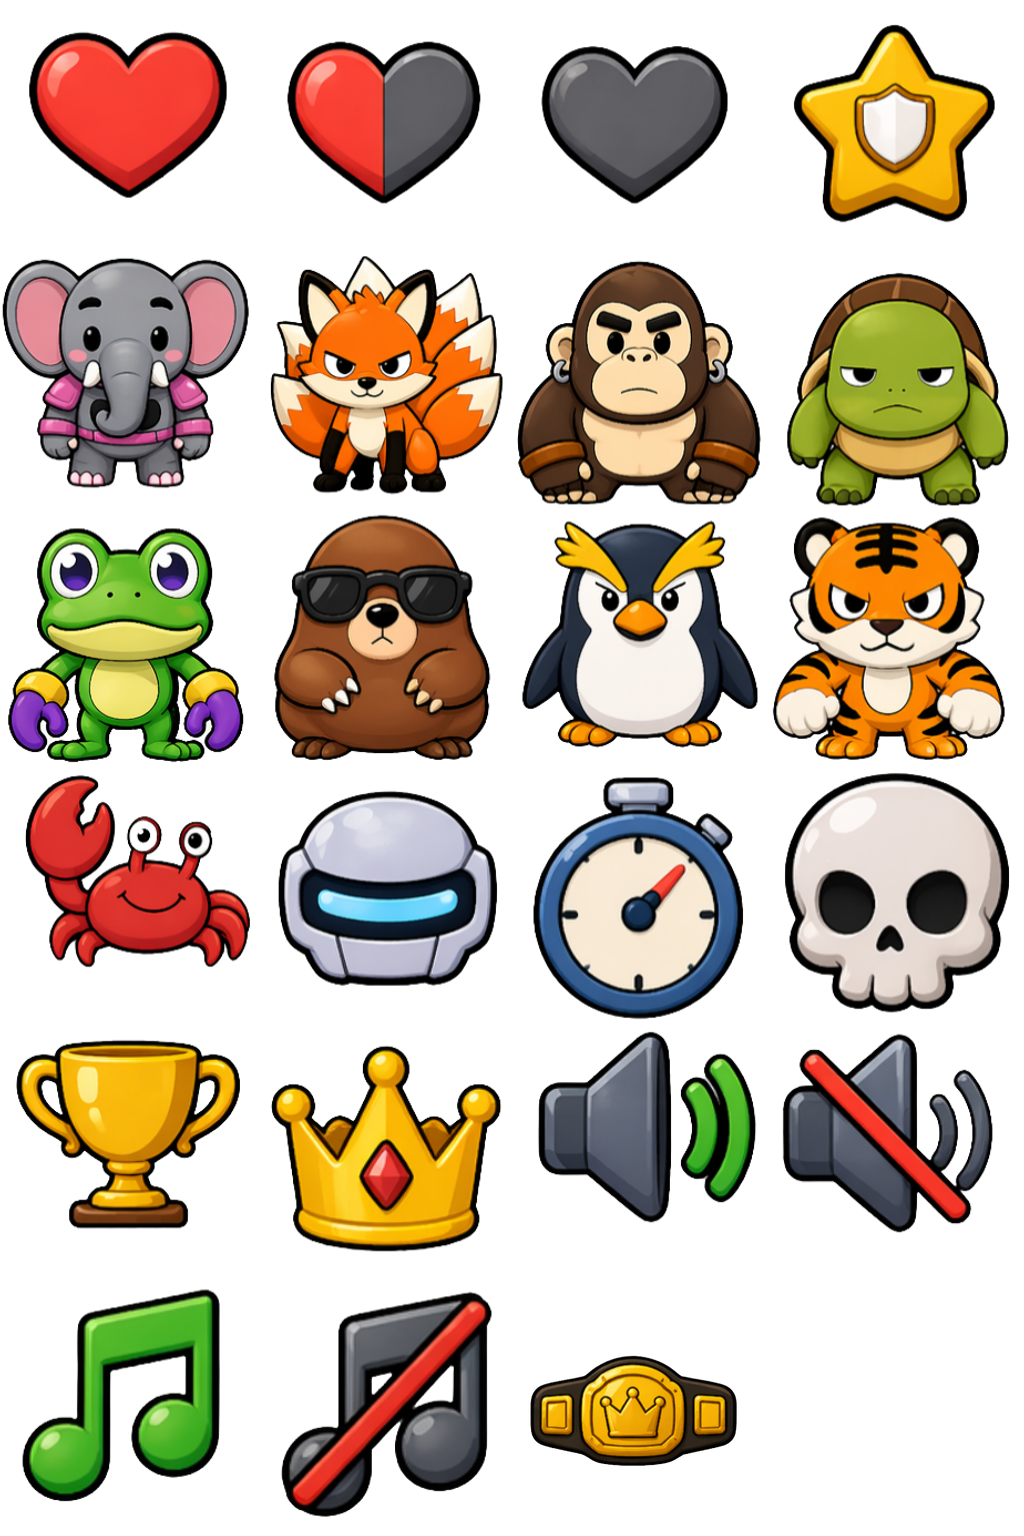
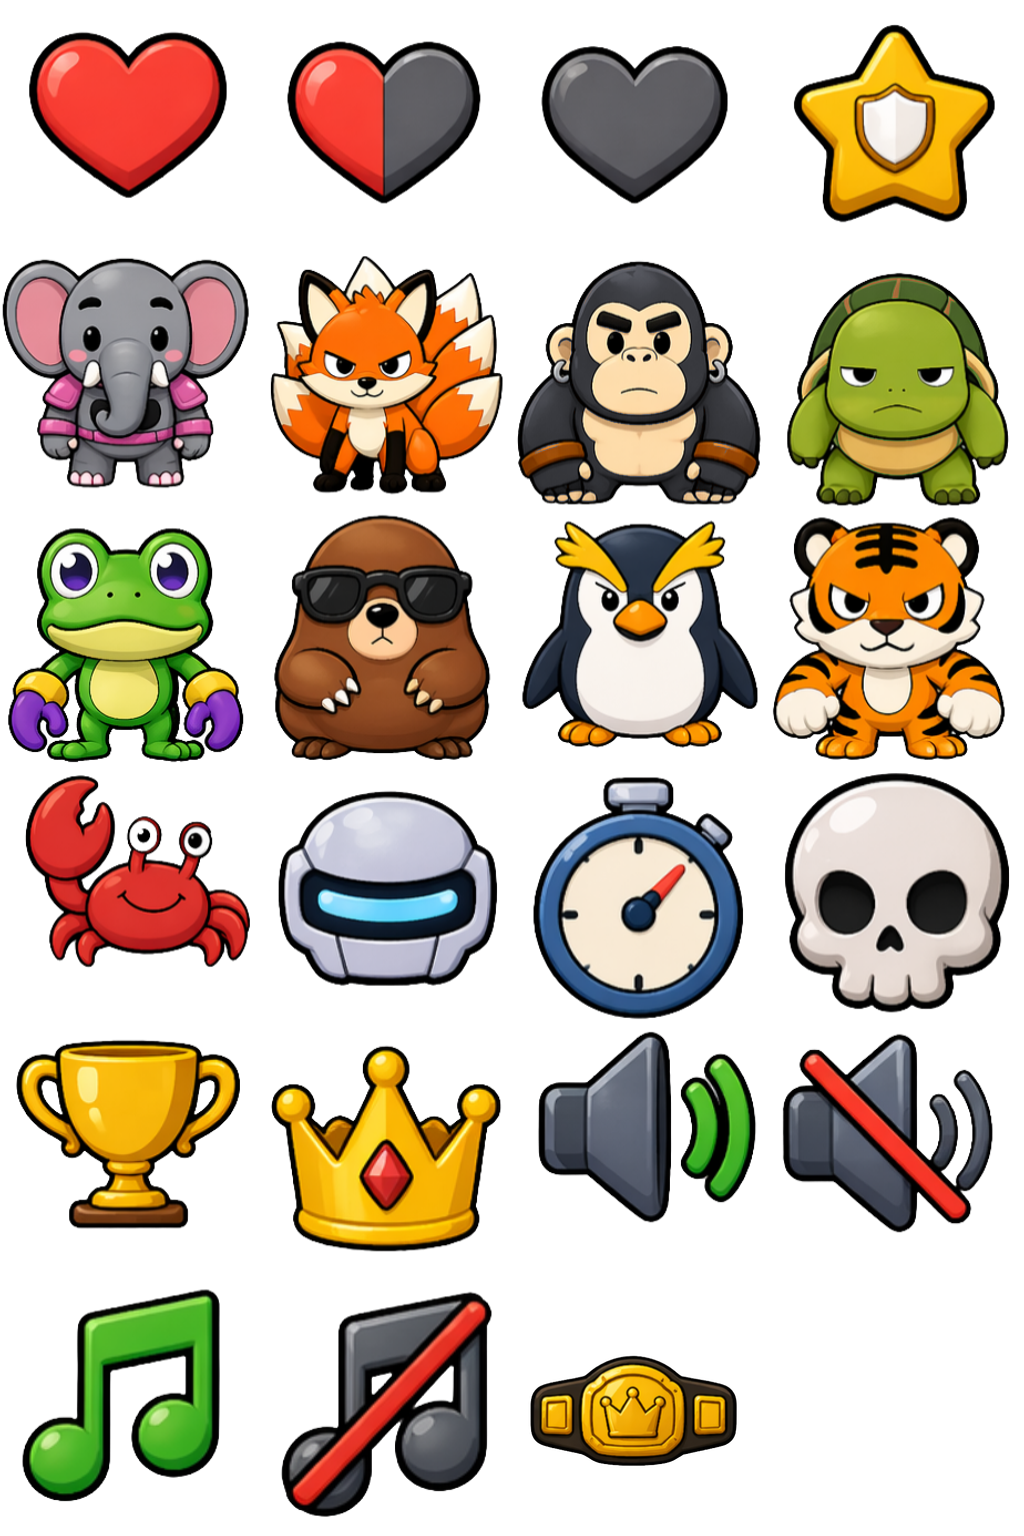
feat(interfaz): los sprites de Sergei y Shelly pasan a la paleta nueva
Con la paleta de los bocetos de Rafa (PERSONAJES, 2026-09-24), el chibi de
Sergei seguía siendo un gorila marrón (el bicho es carbón) y Shelly
llevaba el caparazón marrón (ahora es oliva). Como los sprites tapan la
miniatura en la parrilla y en las esquinas, se elegía un bicho y se
jugaba con otro.

Rafa eligió recolorear por código antes que redibujar, y aprobó la hoja
antes/después/3D.

- scripts/recolor-hud-tiles.mjs: mueve solo los píxeles marrón oscuro de
  los dos tiles, fundidos por peso. Cara, aros, tripa y contorno quedan
  intactos. Las muñequeras de Sergei se conservan (el 3D también las
  lleva) y se separan por saturación. Reescribe el máster
  _raw/hud-icons.png y regenera hud-icons.webp (q90). La idempotencia va
  por guarda: el fundido suave hacía que una segunda pasada moviera 240 px
  más.
- rebuild-hud-sheet.mjs: la cabecera documenta el orden si se rehace la
  hoja desde HUD_mejorado.png, que sigue con la paleta del jam.

Verificado: parrilla de selección en navegador mudo, check completo (el
webp pasa de 272.562 a 271.876 B) y smoke 3/3.

Docs: BUILD_LOG [Interfaz] (nadie más tocó hoy los troncales), mi carril
y mi nota en el buzón de PERSONAJES, donde también pido que saquen la
normalización de materiales de Meshy a critter-look.ts para usarla en la
miniatura.

Changed region(s): [[0.5, 0.1562, 0.75, 0.3438], [0.7812, 0.1562, 0.9688, 0.25]]

diff --git a/docs/carriles/interfaz.md b/docs/carriles/interfaz.md
@@ -5,17 +5,6 @@ Territorio y reglas: [`docs/SESIONES.md`](../SESIONES.md). Detalle en
 
 ## Pendiente (por orden)
 
-0. **Sprites chibi del HUD con la paleta vieja — espera a Rafa.** Con la
-   paleta de sus bocetos (PERSONAJES, 2026-09-24), el tile de **Sergei**
-   es un gorila marrón (el bicho es carbón) y el de **Shelly** lleva el
-   caparazón marrón (ahora es verde). Kowalski, Kermit, Cheeto y Sihans
-   cuadran; Trunk, Kurama y Sebastian no cambiaron. Los sprites tapan la
-   miniatura en la parrilla y en las esquinas de la partida, así que el
-   choque se ve al elegir. Salen de `HUD_mejorado.png` (arte de Rafa) vía
-   `scripts/rebuild-hud-sheet.mjs`. Opciones: que Rafa rehaga esos dos
-   tiles, o un recoloreado por código de los dos tiles como apaño para que
-   él lo juzgue. **Viaja con el despliegue de H4.5**: la paleta nueva sale
-   con él.
 1. **Reestructura del HUD en móvil** (diferido de la era jam: "la versión
    actual es correcta, no ideal"). Mide antes de rediseñar.
    Dato ya medido (2026-09-21): con el portal apagado
@@ -60,6 +49,22 @@ Territorio y reglas: [`docs/SESIONES.md`](../SESIONES.md). Detalle en
 
 ## Hecho
 
+- **2026-09-24 — Sprites chibi de Sergei y Shelly a la paleta nueva**
+  (aprobado por Rafa sobre la hoja antes/después/3D). Con la paleta de sus
+  bocetos, el tile de Sergei era un gorila marrón (el bicho es carbón) y
+  el de Shelly llevaba el caparazón marrón (ahora es oliva). Los sprites
+  tapan la miniatura en la parrilla y en las esquinas, así que se elegía
+  un bicho y se jugaba con otro. `scripts/recolor-hud-tiles.mjs` mueve
+  solo los píxeles marrón oscuro de esos dos tiles, fundidos por peso:
+  cara, aros, tripa y contorno quedan intactos. Las muñequeras de Sergei
+  (s ≥ 0,9) se conservan, porque el 3D también las lleva. Reescribe el
+  máster `_raw/hud-icons.png` y regenera el `.webp`. Es idempotente por
+  guarda: un tile con menos de 1.000 px marrones se da por hecho, porque
+  el fundido suave hacía que una segunda pasada moviera 240 px más. **Si
+  algún día se rehace la hoja desde `HUD_mejorado.png`** (que sigue con la
+  paleta del jam): `rebuild-hud-sheet` → `compress-images` →
+  `recolor-hud-tiles`. Kowalski, Kermit, Cheeto y Sihans ya cuadraban;
+  Trunk, Kurama y Sebastian no cambiaron.
 - **2026-09-24 — Miniaturas 3D con contorno y encuadre por pose**
   (`src/slot-thumbnail.ts`, petición de PERSONAJES). Llevan el mismo
   contorno que `Critter` (`setOutlineVisible(attachOutline(glb), true)`,
@@ -88,9 +93,11 @@ Territorio y reglas: [`docs/SESIONES.md`](../SESIONES.md). Detalle en
 
 ## Cómo retomar
 
-**2026-09-24** — miniaturas con contorno y encuadre, en `dev`. Portal
-cerrado en `dev`, pendiente solo del despliegue (lo lleva DISTRIBUCIÓN
-junto con el de H4.5). Esperando a Rafa: los sprites de Sergei y Shelly
-(punto 0). Siguiente trabajo propio: la reestructura del HUD en móvil;
-empieza midiendo (capturas a 390×844 y 1280×720 con `body.touch-mode`)
-antes de proponer nada.
+**2026-09-24** — en `dev`: miniaturas con contorno y encuadre, y sprites
+de Sergei y Shelly a la paleta nueva. El portal, cerrado en `dev`, sale
+con el despliegue de H4.5 (lo lleva DISTRIBUCIÓN). Queda abierto con
+PERSONAJES: la normalización de materiales de los rigs de Meshy en la
+miniatura, a la espera de que la saquen como función compartida a
+`critter-look.ts` (ver su buzón). Siguiente trabajo propio: la
+reestructura del HUD en móvil; empieza midiendo (capturas a 390×844 y
+1280×720 con `body.touch-mode`) antes de proponer nada.

diff --git a/BUILD_LOG.md b/BUILD_LOG.md
@@ -1,5 +1,30 @@
 # Build Log — Bichitos Rumble
 
+## 2026-09-24 — [Interfaz] Los retratos del HUD se ponen al día con la paleta nueva
+
+PERSONAJES cambió los bichos a la paleta de los bocetos de Rafa y les puso
+contorno. Con eso, dos superficies de este carril enseñaban otro bicho.
+
+- **Sprites chibi (lo que se ve en la parrilla y en las esquinas).** Sergei
+  seguía siendo un gorila marrón y Shelly llevaba el caparazón marrón, así
+  que se elegía un bicho y se jugaba con otro. Rafa eligió un recoloreado
+  por código antes que redibujar, y lo aprobó sobre la hoja
+  antes/después/3D. `scripts/recolor-hud-tiles.mjs` mueve solo los
+  píxeles marrón oscuro de esos dos tiles, fundidos por peso. Sergei
+  conserva las muñequeras, que el 3D también lleva, y se separan del pelo
+  por saturación: 0,9 frente a 0,3-0,5. El fundido suave hacía que una
+  segunda pasada moviera 240 px más, así que la idempotencia va por
+  guarda (menos de 1.000 px marrones = hecho). `HUD_mejorado.png` sigue
+  con la paleta del jam: si se rehace la hoja, el recoloreado va después
+  de `compress-images`.
+- **Miniaturas 3D (sala de espera online).** Llevan el contorno de
+  `critter-look.ts` y se encuadran por su silueta posada
+  (`measurePosedBox`). Con la escala cruda del roster, a Kurama se le
+  cortaban orejas y cola y Sebastian ocupaba un tercio del cuadro.
+- `baseColor` (brillo de las casillas) **no se toca**: es color de
+  identidad (Kermit brilla morado siendo lima) y además es el
+  `config.color` del bicho.
+
 ## 2026-09-24 — [PERSONAJES] El bicho encaja el golpe: inclinación visible, fotograma de impacto y destello en los nueve
 
 - `reactionRig` (`mesh → rig → pivot → GLB`): el empujón inclina el

diff --git a/docs/carriles/personajes.md b/docs/carriles/personajes.md
@@ -223,9 +223,17 @@ antes de commitear el JSON.
      caparazón marrón (`public/images/hud-icons.webp`, sale del arte
      `HUD_mejorado.png` de Rafa). Esos sprites tapan la miniatura en la
      parrilla y en las cuatro esquinas de la partida, así que hoy eliges un
-     Sergei marrón y juegas con uno carbón. Se lo planteo a Rafa. Si rehace
-     esos dos, revisamos juntos el brillo de Sergei: un brillo carbón no
-     brilla sobre la UI oscura, así que probablemente siga cálido.
+     Sergei marrón y juegas con uno carbón. **Resuelto el mismo día**:
+     Rafa aprobó un recoloreado de esos dos tiles
+     (`scripts/recolor-hud-tiles.mjs`). Sergei pasa a carbón y conserva sus
+     muñequeras marrones, como vuestro 3D; Shelly lleva el caparazón oliva.
+     El brillo de Sergei se queda cálido: combina con sus muñequeras, y
+     uno carbón no brillaría sobre la UI oscura.
+  3. **Normalización de materiales Meshy (tu 6323a53): sí, sácala a una
+     función compartida en `critter-look.ts`.** Copiarla a
+     `slot-thumbnail.ts` es la duplicación que acaba divergiendo. Cuando
+     esté en `dev`, la llamo desde la miniatura: tras clonar, antes de
+     posar y medir. Déjame nota en mi buzón con el nombre.
 
 ## Cómo retomar
 
